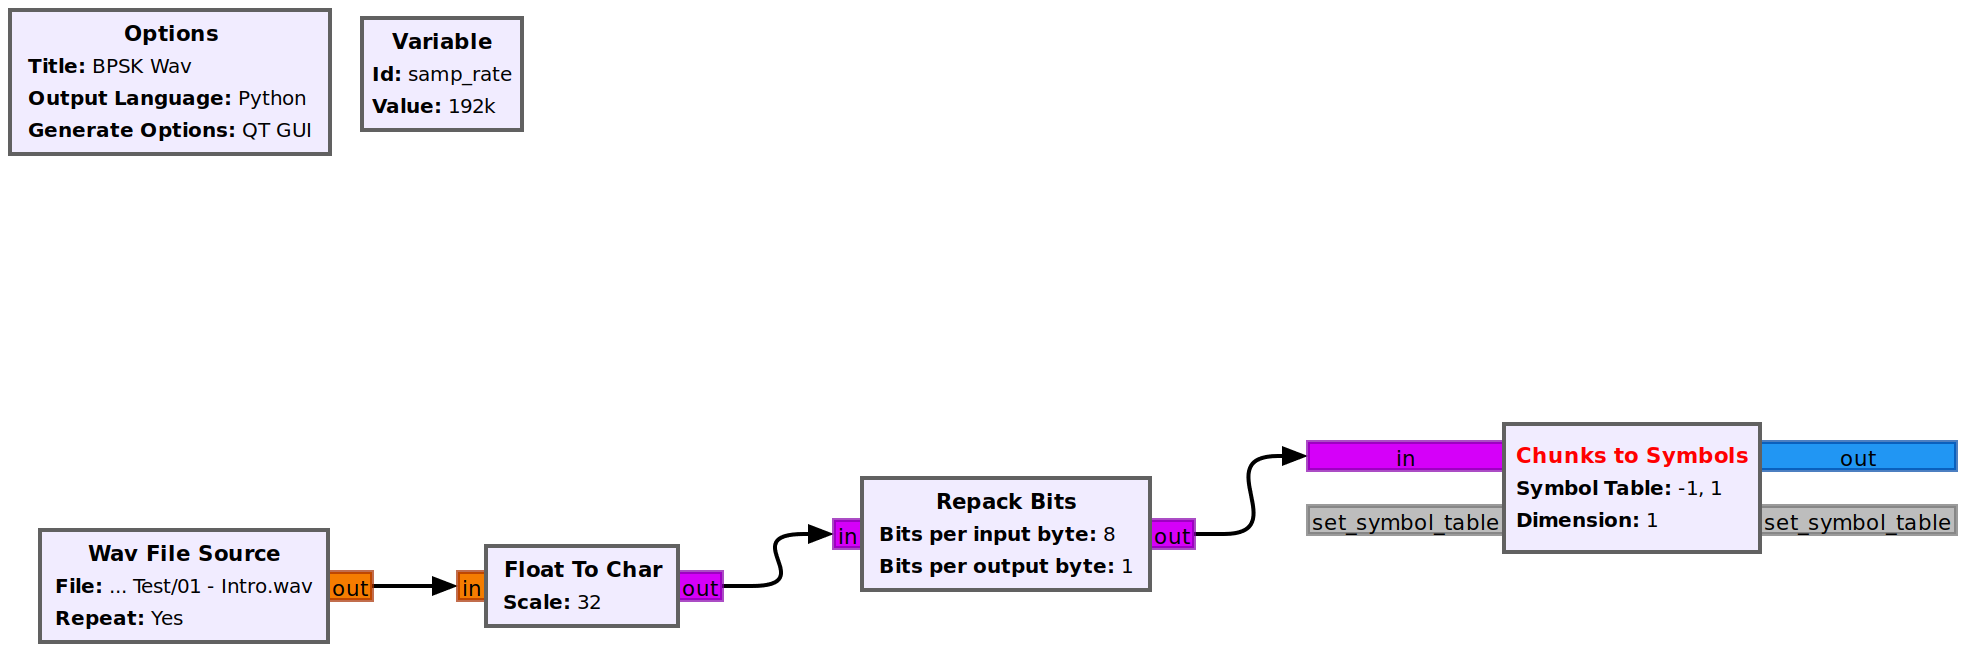
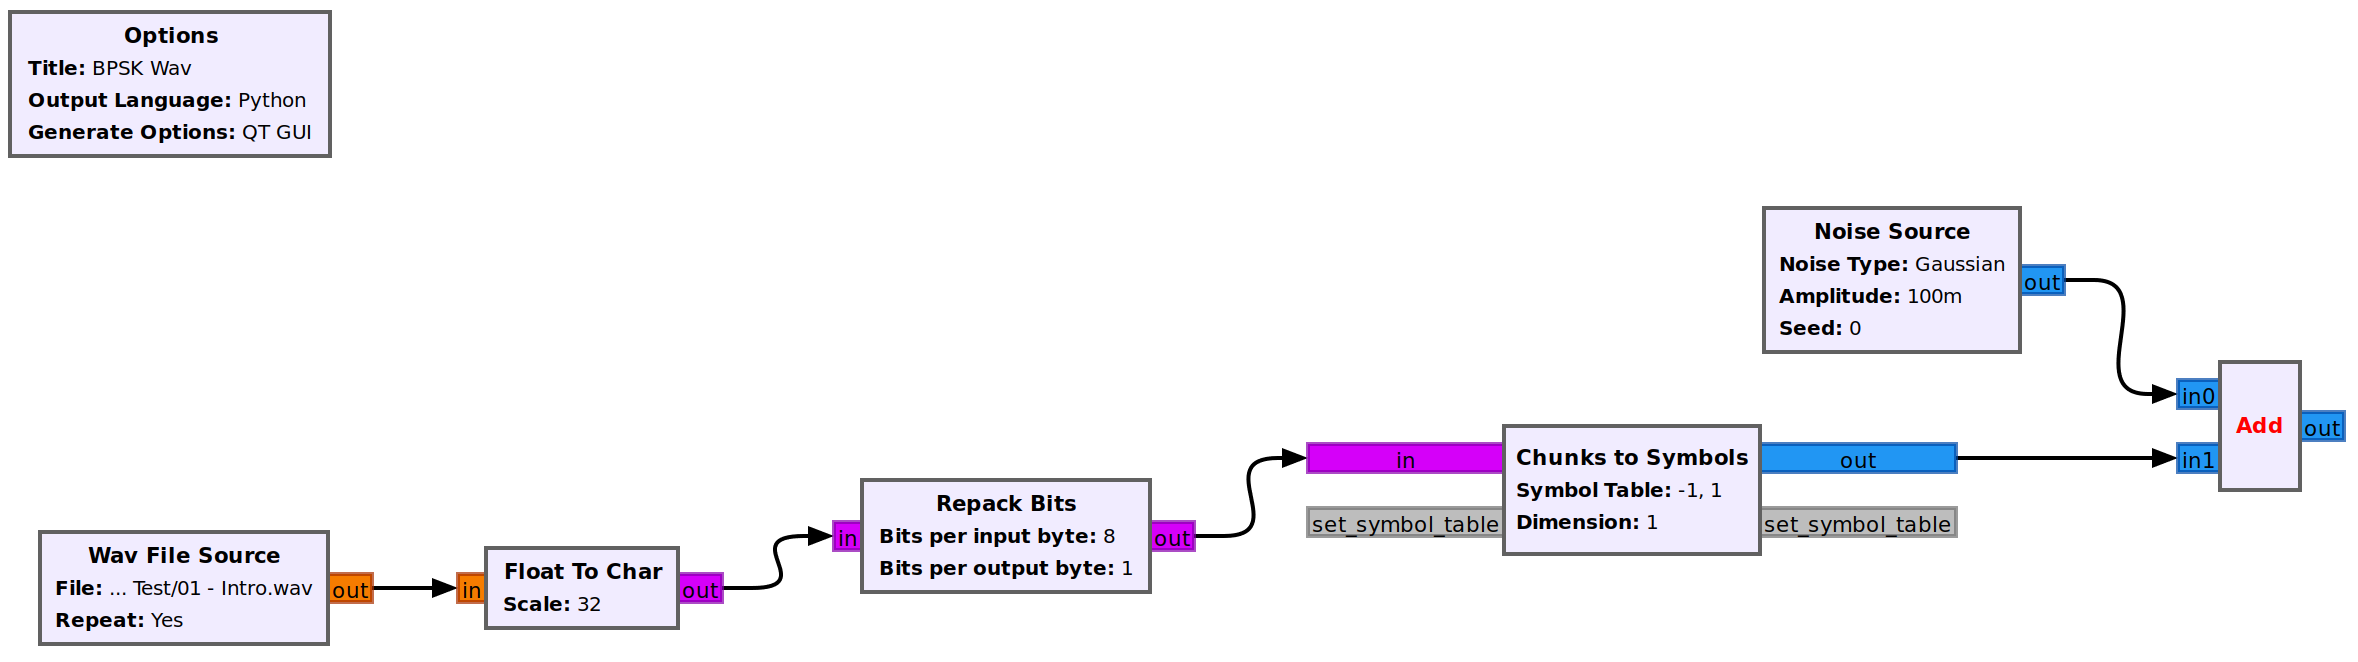
added gnuradio bpsk wav modulation

Changed region(s): [[0.0, 0.5471, 1.0, 1.0], [0.0, 0.0, 0.279, 0.2432], [0.7439, 0.304, 0.8989, 0.5471]]

diff --git a/docs/source/bpsk-wav.rst b/docs/source/bpsk-wav.rst
@@ -1,0 +1,121 @@
+Creating a BPSK modulation with audio
+=====================================
+
+BPSK modulation with a *wav* file
+---------------------------------
+
+First, place an *wav* audio file in the project's directory, then add the *Wav File Source* block with the following parameters:
+
+.. list-table::
+   :widths: 15 15 60
+   :header-rows: 1
+
+   * - Field
+     - Type
+     - Details
+   * - ``File``
+     - file_open
+     - Path to a *wav* file
+   * - ``Repeat``
+     - enum
+     - Repeat or not the audio file after ending
+   * - ``N Channels``
+     - int
+     - 1
+
+Then, use the *Float To Char* block to convert the wav data into char arrays:
+
+.. list-table::
+   :widths: 15 15 60
+   :header-rows: 1
+
+   * - Field
+     - Type
+     - Details
+   * - ``Vec Length``
+     - int
+     - 1
+   * - ``Scale``
+     - float
+     - 32
+
+Now, to convert the raw data to BSPK modulation, use the *Repack Bits* with 8 bits per input byte and 1 bit per output byte, since the BPSK modulation will generate a pair of symbols mapped to (0,1):
+
+.. list-table::
+   :widths: 15 15 60
+   :header-rows: 1
+
+   * - Field
+     - Type
+     - Details
+   * - ``Bits per input byte``
+     - int
+     - 8
+   * - ``Bits per output byte``
+     - int
+     - 1
+   * - ``Length Tag Key``
+     - string
+     - ""
+   * - ``Packet Alignment``
+     - enum
+     - Input
+   * - ``Endianness``
+     - int
+     - LSB (1)
+
+To effectively convert the individual bits to symbols, use the *Chunks to Symbols* block with the following parameters:
+
+.. list-table::
+   :widths: 15 15 60
+   :header-rows: 1
+
+   * - Field
+     - Type
+     - Details
+   * - ``Input Type``
+     - enum
+     - byte
+   * - ``Output Type``
+     - enum
+     - complex
+   * - ``Symbol Table``
+     - complex_vector
+     - [0, 1]
+   * - ``Dimention``
+     - int
+     - 1
+   * - ``Num Ports``
+     - int
+     - 1
+
+Finally, add the *Noise Source* block to generate some noise to the modulation:
+
+.. list-table::
+   :widths: 15 15 60
+   :header-rows: 1
+
+   * - Field
+     - Type
+     - Details
+   * - ``Output Type``
+     - enum
+     - complex
+   * - ``Noise Type``
+     - int
+     - Gaussian (201)
+   * - ``Amplitude``
+     - float
+     - 100e-3
+   * - ``Seed``
+     - int
+     - 1
+
+The image below illustrates the flowgraph with the steps taken so far:
+
+.. image:: /imgs/bpsk_wav/bpsk_wav_1.png
+
+BPSK demodulation with a wav file
+---------------------------------
+
+Now that we've build the modulator, the next step is to place the demodulator building blocks.

diff --git a/docs/source/index.rst b/docs/source/index.rst
@@ -6,13 +6,14 @@
 Welcome to hobbyist projects documentation!
 ===========================================
 
-This serves as a place to store all the documentation for several projects created by me, Guilherme, and Helder. We both studied Electrical Engineering in Brazil, at UFPR. At the end of 2020 we decided to work together from distance (me in the Netherlands during my PhD and him in Brazil doing his Masters). The idea was to be able to work together with the strengths of both of us and the equipment each one had access. The main projects are displayed here below, by accessing them you'll be able to see the division proposed and hopefully our initial idea, the challenges and adaptations we made and finally the final product. You can check `Guilherme's github <https://github.com/guilhermetheis>`_ and `Helder's github <https://github.com/helder-sales>`_. Guilherme works with RF (PCB, IC and antenna) while Helder has more experience with digital electronics, control systems and analog/digital PCB design.
+This serves as a place to store all the documentation for several projects created by me, Guilherme, and Helder. We both studied Electrical Engineering in Brazil, at UFPR. At the end of 2020 we decided to work together from distance (me in the Netherlands during my PhD and him in Brazil doing his Masters). The idea was to be able to work together with the strengths of both of us and the equipment each one had access. The main projects are displayed here below, by accessing them you'll be able to see the division proposed and hopefully our initial idea, the challenges and adaptations we made and finally the final product. You can check `Guilherme's github <https://github.com/guilhermetheis>`_ and `Helder's github <https://github.com/helder-sales>`_. Guilherme works with RF (PCB, IC and antenna) while Helder has more experience with embedded electronics, control systems and analog/digital PCB design.
 
 .. toctree::
    :maxdepth: 2
    :caption: Projects:
 
    documentation.rst
+   bpsk-wav.rst
 
 
 

diff --git a/docs/source/documentation.rst b/docs/source/documentation.rst
@@ -15,36 +15,6 @@ https://github.com/ghostop14/gr-grnet.git
 
 Might be necessary to install *swig* and other packages to *cmake* run without errors.
 
-Please note that the *tcp-server* block bundled with the gnuradio doesn't work (it refuses all connections with *rpitx* without a motive).
+.. note::
 
-Creating a BPSK/QPSK modulation
-===============================
-
-Creating a BPSK with *wav* file
--------------------------------
-
-First, place an *wav* audio file in the project's directory, then add the *Wav File Source* block with the following parameters:
-
-.. code-block:: text
-
-        * File: name of the wav audio file
-        * Repeat: either Yes or No
-        * N Channels: 1
-
-Then, use the *Float To Char* block to convert the wav data into char arrays, with *Scale* set to 32.
-
-Now, to convert the raw data to BSPK modulation, use the *Repack Bits* with 8 bits per input byte and 1 bit per output byte, since the BPSK modulation will generate a pair of symbols mapped to (0,1). 
-
-To effectively convert the individual bits to symbols, use the *Chunks to Symbols* block with the following parameters:
-
-.. code-block:: text
-
-        * Input Type: byte
-        * Output Type: complex
-        * Symbol Table: [0, 1]
-        * Dimention: 1
-        * Num Ports: 1
-
-The image below illustrates the flowgraph with the steps taken so far:
-
-.. image:: ./imgs/bpsk_wav/bpsk_wav_1.png
+        The *tcp-server* block bundled with the gnuradio doesn't work (it refuses all connections with *rpitx* without a motive).
